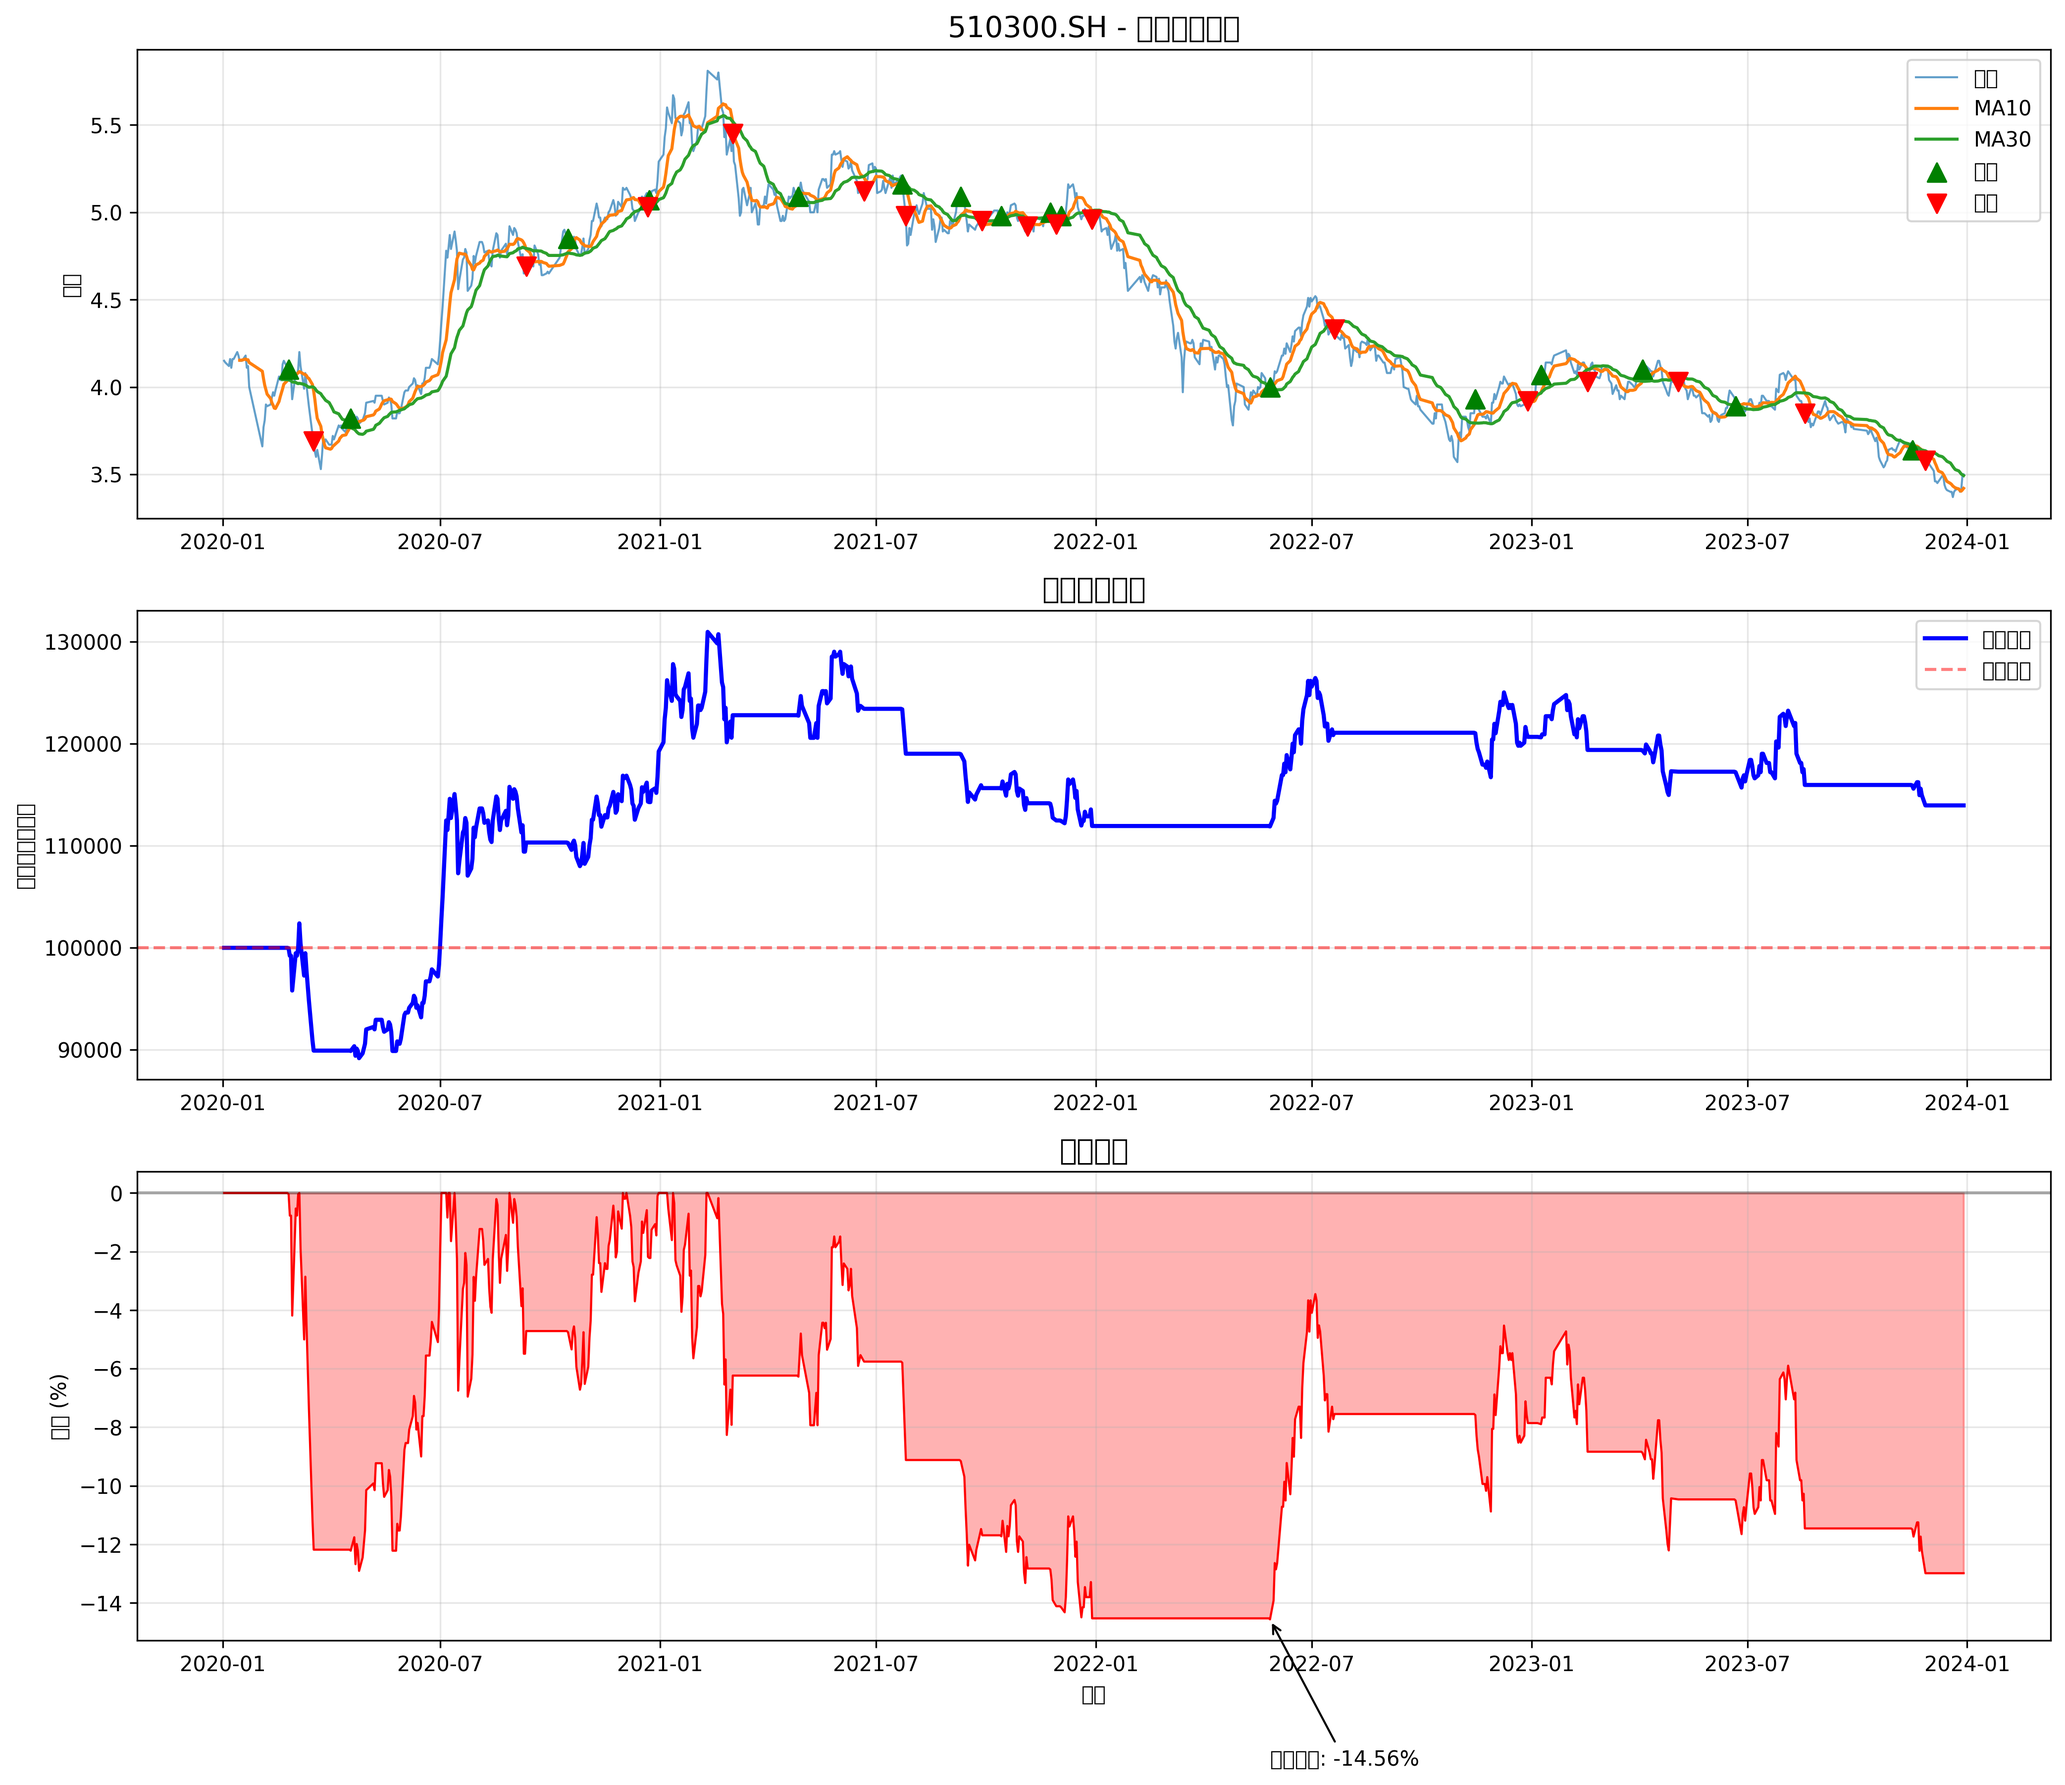
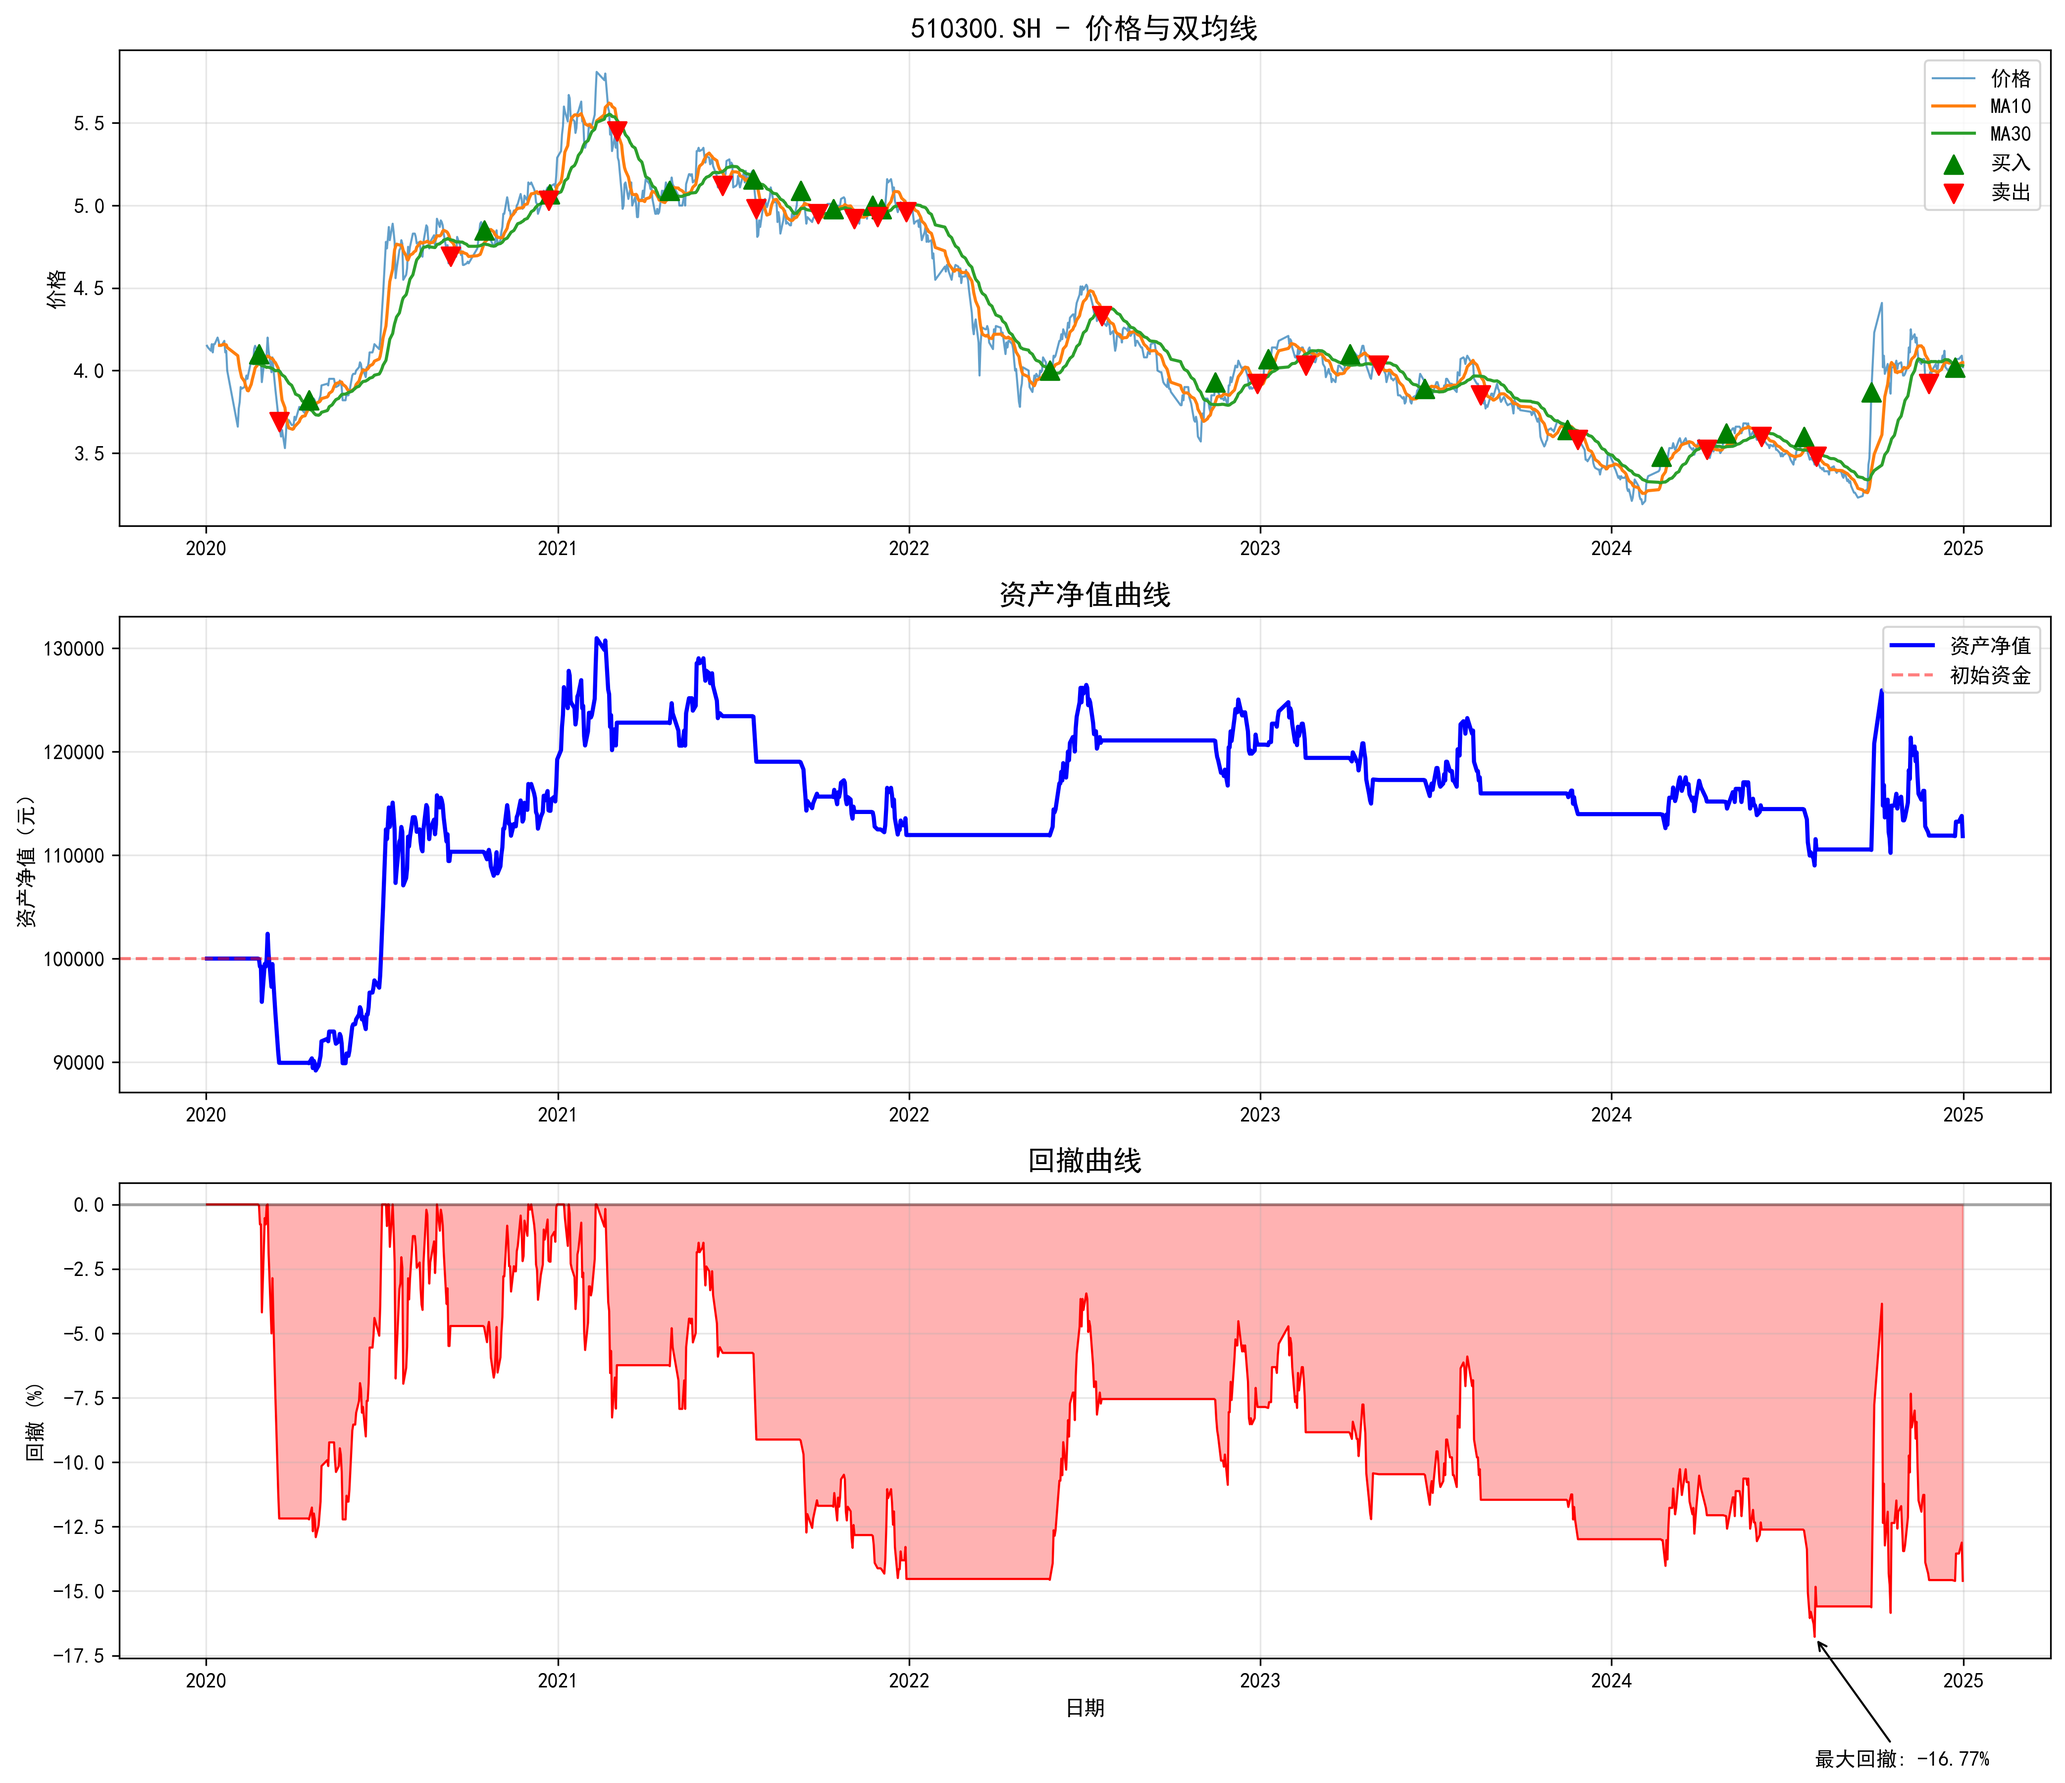
修复图表中文显示、支持回测参数传入、简化股票代码输入逻辑

diff --git a/src/data/database_manager.py b/src/data/database_manager.py
@@ -272,8 +272,8 @@ class DatabaseManager:
         """
         从stock_daily表获取股票日线数据
         
-        Args:
-            symbol: 股票代码，如 '510300.SH' 或纯代码 '510300'
+        args:
+            symbol: 股票代码，如 '510300.SH' 或纯代码 '510300' 510300.SH
             start_date: 开始日期，格式 'YYYY-MM-DD'
             end_date: 结束日期，格式 'YYYY-MM-DD'
             fields: 需要获取的字段列表，如果为None则获取所有字段
@@ -309,9 +309,8 @@ class DatabaseManager:
             
             price_column = price_column_map[use_adj]
             
-            # 构建查询字段
+            # fields为要获取的字段 为空则默认获取所有字段
             if fields is None:
-                # 默认获取常用字段 + 复权价格
                 fields = [
                     'symbol', 'market', 'trade_date',
                     'open', 'high', 'low', 'close',
@@ -333,36 +332,39 @@ class DatabaseManager:
             # 构建WHERE条件
             where_conditions = []
             params = []
+
+            # 简单化逻辑处理，暂时只支持510030.SH的传入
+            symbol_code, market_code = symbol.split('.')[0], symbol.split('.')[1]
             
-            # 处理symbol条件
-            if isinstance(symbol, str):
-                # 解析完整代码
-                symbol_code, market_code = self.parse_stock_code(symbol)
-                logger.debug(f"解析结果: symbol={symbol_code}, market={market_code}")
+            # # 处理symbol条件
+            # if isinstance(symbol, str):
+            #     # 解析完整代码
+            #     symbol_code, market_code = self.parse_stock_code(symbol)
+            #     logger.debug(f"解析结果: symbol={symbol_code}, market={market_code}")
                 
-                if market_code:
-                    # 如果能够解析出市场代码
-                    where_conditions.append("symbol = %s AND market = %s")
-                    params.extend([symbol_code, market_code])
-                else:
-                    # 如果不能解析出市场代码，只使用symbol
-                    where_conditions.append("symbol = %s")
-                    params.append(symbol_code)
+            #     if market_code:
+            #         # 如果能够解析出市场代码
+            #         where_conditions.append("symbol = %s AND market = %s")
+            #         params.extend([symbol_code, market_code])
+            #     else:
+            #         # 如果不能解析出市场代码，只使用symbol
+            #         where_conditions.append("symbol = %s")
+            #         params.append(symbol_code)
                     
-            elif isinstance(symbol, list):
-                # 处理多个股票代码
-                symbol_conditions = []
-                for s in symbol:
-                    symbol_code, market_code = self.parse_stock_code(s)
-                    if market_code:
-                        symbol_conditions.append("(symbol = %s AND market = %s)")
-                        params.extend([symbol_code, market_code])
-                    else:
-                        symbol_conditions.append("symbol = %s")
-                        params.append(symbol_code)
+            # elif isinstance(symbol, list):
+            #     # 处理多个股票代码
+            #     symbol_conditions = []
+            #     for s in symbol:
+            #         symbol_code, market_code = self.parse_stock_code(s)
+            #         if market_code:
+            #             symbol_conditions.append("(symbol = %s AND market = %s)")
+            #             params.extend([symbol_code, market_code])
+            #         else:
+            #             symbol_conditions.append("symbol = %s")
+            #             params.append(symbol_code)
                 
-                if symbol_conditions:
-                    where_conditions.append(f"({' OR '.join(symbol_conditions)})")
+            #     if symbol_conditions:
+            #         where_conditions.append(f"({' OR '.join(symbol_conditions)})")
             
             # 日期条件
             where_conditions.append("trade_date BETWEEN %s AND %s")

diff --git a/scripts/run_backtest.py b/scripts/run_backtest.py
@@ -2,10 +2,20 @@
 # scripts/run_backtest.py
 """
 双均线策略本地回测 - 主启动脚本
-运行方式：python scripts/run_backtest.py
+运行方式
+python scripts/run_backtest.py
+python scripts/run_backtest.py --symbol 510300.SH
+args:
+    symbol: 股票代码，如 '510300.SH' 或纯代码 '510300' 510300.SH
+    start_date: 开始日期，格式 'YYYY-MM-DD'
+    end_date: 结束日期，格式 'YYYY-MM-DD'
+    fields: 需要获取的字段列表，如果为None则获取所有字段
+    use_adj: 复权类型 'forward' (前复权), 'back' (后复权), 'none' (不复权)
 """
+import argparse
 import sys
 from pathlib import Path
+import matplotlib
 import pandas as pd
 import matplotlib.pyplot as plt
 
@@ -21,18 +31,28 @@ def main():
     print("=" * 60)
     print("双均线策略本地回测")
     print("=" * 60)
+
+    # 获取传参
+    parser = argparse.ArgumentParser(description='回测策略传参')
+    parser.add_argument('--symbol', type=str, help='单只股票代码，如 510300.SH')
+    parser.add_argument('--start_date', type=str, default="2020-01-01", help='回测开始日期 yyyy-mm-dd')
+    parser.add_argument('--end_date', type=str, default="2024-01-01", help='回测结束日期 yyyy-mm-dd')
+    parser.add_argument('--use_adj', type=str, default='forward', help='前后复权')
+
+    args = parser.parse_args()
     
     # 1. 获取数据
     print("\n1. 从数据库获取数据...")
     db = DatabaseManager()
-    symbol = "510300.SH"
     
+
     # 获取数据（使用前复权价格）
+    symbol=args.symbol
     data = db.fetch_stock_data(
         symbol=symbol,
-        start_date="2020-01-01",
-        end_date="2024-01-01",
-        use_adj='forward'  # 使用前复权
+        start_date=args.start_date,
+        end_date=args.end_date,
+        use_adj=args.use_adj  # 使用前复权
     )
     
     if data.empty:
@@ -42,7 +62,7 @@ def main():
     print(f"获取到 {len(data)} 条数据，时间范围: {data['trade_date'].min()} 到 {data['trade_date'].max()}")
     
     # 2. 运行策略
-    print("\n2. 运行双均线策略...")
+    print("\n2. 运行策略...")
     strategy = DualMAStrategy(fast_period=10, slow_period=30)
     data_with_signals = strategy.generate_signals(data)
     
@@ -97,6 +117,9 @@ def main():
 
 def plot_results(backtest_result, data_with_signals, symbol):
     """绘制回测结果图表"""
+    matplotlib.rcParams['font.sans-serif'] = ['SimHei', 'Microsoft YaHei', 'DejaVu Sans']  # Windows
+    matplotlib.rcParams['axes.unicode_minus'] = False  # 解决负号显示问题
+
     fig, axes = plt.subplots(3, 1, figsize=(14, 12))
     
     # 1. 价格与均线

diff --git a/scripts/daily_update.py b/scripts/daily_update.py
@@ -1,5 +1,8 @@
 #!/usr/bin/env python3
 # scripts/daily_update.py
+'''
+daily_update.py代码用于拉取股票数据
+'''
 import sys
 import os
 import argparse
